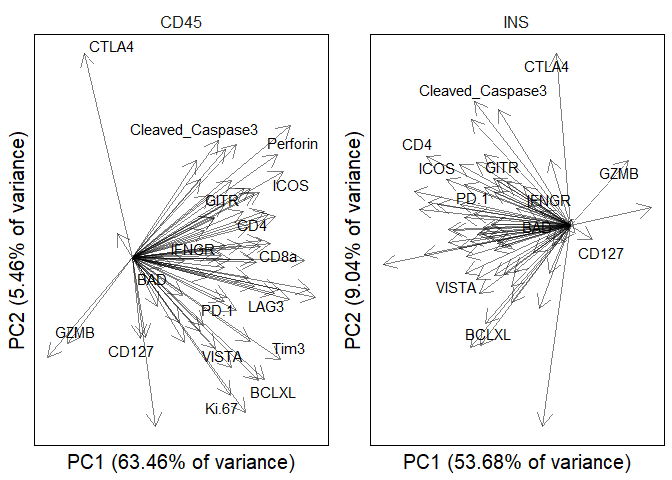
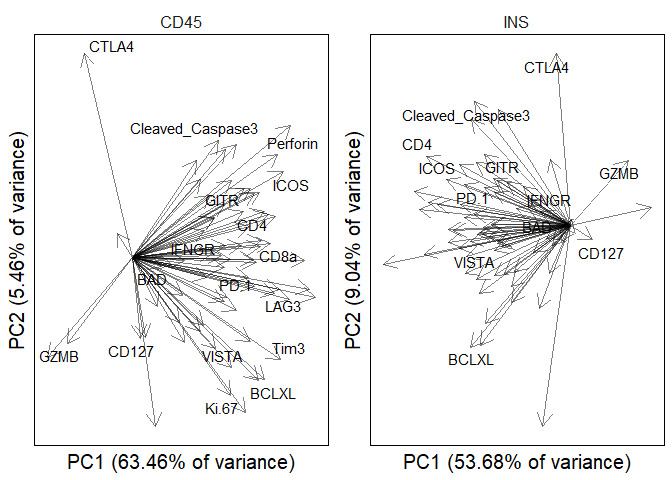
made geoMX analysis plots nicer

diff --git a/scripts/geoMX/geomx_analysis.md b/scripts/geoMX/geomx_analysis.md
@@ -2,7 +2,7 @@ geomx_analysis
 ================
 2022-06-29
 
-## GeoMX analysis
+## Introduction
 
 In this analysis, we looked at various proteins within beta islets of
 NOD mice age 16-22 weeks of age. The three treatment groups examined
@@ -33,15 +33,7 @@ require(nlme, quietly = T) #mixed linear model analysis
 require(ggrepel, quietly = T) #labels for pca plots
 require(tibble, quietly = T) #rownames_to_column function
 require(useful, quietly = T) #corner function to peek at data.frames
-```
-
-``` r
-treatment_colors <- c("IgG" = "black", 
-                      "Spt" = rgb(253,128,8, maxColorValue = 255), 
-                      "PD1" = rgb(128,0,128, maxColorValue = 255))
-islet_score_colors <- c("Insulitis" = "darkred",
-                  "Peri.insulitis" = "royalblue3",
-                  "Normal" = "seagreen4")
+source("scripts/utils.R") #custom color palettes
 ```
 
 Read in the data files. One data file contains the code-friendly protein
@@ -233,6 +225,8 @@ geomx %>% group_by(treatment,islet_score,label) %>% tally() %>% cast(label+islet
 geomx <- geomx %>% filter(islet_score != "Normal" & label == "CD45" | label == "INS")
 ```
 
+## Differences by score and region classification
+
 Examine protein expression broadly across all of the samples based on
 their region of classification (CD45+ or INS+ region) to confirm that
 expression levels generally make sense. CD45+ regions should have higher
@@ -369,8 +363,8 @@ p1 <- melted %>%
                                      vjust = 0.5, 
                                      hjust=1),
           axis.title.x = element_blank()) +
-    scale_color_manual(values = islet_score_colors) +
-    scale_fill_manual(values = islet_score_colors) +
+    scale_color_manual(values = custom_colors("islets")) +
+    scale_fill_manual(values = custom_colors("islets")) +
     { if (sum(p1_vals$p.adj < 0.05) > 0) #check if there are any significant p values, otherwise, don't plot any NS
       add_pvalue(p1_vals %>% filter(p.adj < 0.05),  #only plot significant values
                color = "black",
@@ -462,8 +456,8 @@ p2 <- melted %>%
                                      vjust = 0.5, 
                                      hjust=1),
           axis.title.x = element_blank()) +
-    scale_color_manual(values = islet_score_colors) +
-    scale_fill_manual(values = islet_score_colors) +
+    scale_color_manual(values = custom_colors("islets")) +
+    scale_fill_manual(values = custom_colors("islets")) +
     { if (sum(p2_vals$p.adj < 0.05) > 0) #check if there are any significant p values, otherwise, don't plot any NS
       add_pvalue(p2_vals %>% filter(p.adj < 0.05), #only plot significant values
                color = "black",
@@ -479,6 +473,8 @@ grid.arrange(p1, p2, nrow=2)
 ```
 
 <img src="geomx_analysis_files/figure-gfm/differences in protein expression by islet score (Insulitis/Peri.Insulitis)-1.png" width="900px" />
+
+## PCA analysis
 
 There are no significant differences between CD45+ regions within islets
 with insulitis vs. peri-insulitis. The only identified differences were
@@ -505,13 +501,13 @@ shapes <- shapes[as.numeric(factor(df_for_pca$islet_score))]
 plot(pca_scores$sites[,1],
      pca_scores$sites[,2],
      pch = shapes,
-     col = paste(treatment_colors[df_for_pca$treatment]),
+     col = paste(custom_colors("treatments")[df_for_pca$treatment]),
      xlim = c(-3,3),
      ylim = c(-3,3),
      cex=3)
 ordiellipse(prin_comp, factor(df_for_pca$treatment, levels = c("IgG","Spt","PD1")), 
             conf=0.90, 
-            col = treatment_colors, 
+            col = custom_colors("treatments"), 
             lwd = 2)
 ```
 
@@ -547,14 +543,14 @@ shapes <- shapes[as.numeric(factor(df_for_pca$islet_score))]
 plot(pca_scores$sites[,1],
      pca_scores$sites[,2],
      pch = shapes,
-     col = paste(treatment_colors[df_for_pca$treatment]),
+     col = paste(custom_colors("treatments")[df_for_pca$treatment]),
      xlim = c(-4,3),
      ylim = c(-2,4),
      cex=3)
 ordiellipse(prin_comp, 
             factor(df_for_pca$treatment, levels = c("IgG","Spt","PD1")), 
             conf=0.90, 
-            col = treatment_colors, 
+            col = custom_colors("treatments"), 
             lwd = 2)
 ```
 
@@ -595,7 +591,7 @@ pca_cd45 <- df_all %>%
     geom_point(size = 4, 
                alpha = 0.6) +
     stat_ellipse(level = 0.9) + #90% confidence intervals
-    scale_color_manual(values = treatment_colors) +
+    scale_color_manual(values = custom_colors("treatments")) +
     theme_minimal() +
     theme(panel.grid = element_blank(),
           axis.text = element_blank(),
@@ -615,7 +611,7 @@ pca_ins <- df_all %>%
     geom_point(size = 4, 
                alpha = 0.6) +
     stat_ellipse(level = 0.9) + #90% confidence intervals
-    scale_color_manual(values = treatment_colors) +
+    scale_color_manual(values = custom_colors("treatments")) +
     theme_minimal() +
     theme(panel.grid = element_blank(),
           axis.text = element_blank(),
@@ -642,7 +638,7 @@ weights_cd45 <- pca_weights %>%
     filter(label == "CD45") %>%
     ggplot(aes(x = PC1, y = PC2)) +
     facet_wrap(~ label, scales = "free") +
-    scale_color_manual(values = treatment_colors) +
+    scale_color_manual(values = custom_colors("treatments")) +
     theme_minimal() +
     theme(panel.grid = element_blank(),
           axis.text = element_blank(),
@@ -662,7 +658,7 @@ weights_ins <- pca_weights %>%
     filter(label == "INS") %>%
     ggplot(aes(x = PC1, y= PC2)) +
     facet_wrap(~ label, scales = "free") +
-    scale_color_manual(values = treatment_colors) +
+    scale_color_manual(values = custom_colors("treatments")) +
     theme_minimal() +
     theme(panel.grid = element_blank(),
           axis.text = element_blank(),
@@ -686,47 +682,74 @@ grid.arrange(weights_cd45, weights_ins, nrow = 1)
 
 ![](geomx_analysis_files/figure-gfm/ggplot%20of%20PCA%20weights-1.png)<!-- -->
 
+# Treatment-associated differences
+
 Next, the differences between treatment groups will be analyzed by
 generating volcano plots. Here is an example of the comparison between
 PD1 and Spt. There are no significant differences.
 
 ``` r
-meltednrml <- melted %>% filter(label == "CD45") %>% dplyr::select(-islet_score)
-meltednrml$treatment <- relevel(meltednrml$treatment, ref = "PD1")
+meltednrml <- melted %>% 
+                filter(label == "CD45") %>% #examine the CD45 gated regions
+                filter(!protein %in% c("Rt_IgG2b","Rb_IgG","Rt_IgG2a","CD45","INS","S6","GFP","MHCII","GAPDH","Histone.H3","PanCk")) %>% #remove housekeeping genes and irrelevant genes not in the dataset (GFP is not in this mouse and MHCII is different in NOD)
+                dplyr::select(-islet_score) 
+meltednrml$treatment <- relevel(meltednrml$treatment, ref = "PD1") #use PD1 as the reference group
 df <- data.frame()
 
 for (current_protein in as.character(unique(meltednrml$protein))) {
   tmp <- meltednrml %>% 
-    filter(protein == current_protein)
-  tmp <- data.frame(summary(lme(expression ~ treatment, random = list(~1|mouse, ~1|scan_id), data = tmp))$tTable[-1,]) %>% 
-    rownames_to_column("comparison") %>% 
-    mutate(protein = current_protein, ref = "PD1", comparison = gsub("treatment", "", comparison))
-  df <- rbind(df, tmp)
+            filter(protein == current_protein)
+  tmp <- data.frame(summary(lme(expression ~ treatment, #mixed linear model to look at correlation of expression to treatment group
+                                random = list(~1|mouse, #control for the mouse examined
+                                              ~1|scan_id), #also control for each scan
+                                data = tmp))$tTable[-1,]) %>% 
+          rownames_to_column("comparison") %>% #move the treatment group being compared to a column
+          mutate(protein = current_protein, ref = "PD1", comparison = gsub("treatment", "", comparison)) #clean up
+  df <- rbind(df, tmp) #add the temporary df with one protein to the df with data for all the proteins
 }
 
 avgs <- meltednrml %>% 
-  group_by(treatment,protein) %>% 
-  summarize(avg = mean(expression), .groups = "keep")
+          group_by(treatment, protein) %>% 
+          summarize(avg = mean(expression), .groups = "keep") #calculate the mean expression for each protein within each treatment
 
-tbl <- merge(df, avgs %>% cast(protein~treatment,value = "avg"), by = c("protein"))
-tbl <- tbl %>% mutate(log2FC = ifelse(comparison == "Spt", log2(Spt/PD1), log2(IgG/PD1)))
-pd1_v_spt <- tbl %>% filter(comparison == "Spt")
-pd1_v_spt$p.adj <- p.adjust(pd1_v_spt$p.value, method = "BH")
+tbl <- merge(df, avgs %>% cast(protein ~ treatment, value = "avg"), by = c("protein")) #merge the df with the casted averages (wide format)
+tbl <- tbl %>% mutate(log2FC = ifelse(comparison == "Spt", log2(PD1/Spt), log2(PD1/Spt))) #calculate the log fold change based on the desired comparison
+pd1_v_spt <- tbl %>% 
+              filter(comparison == "Spt") %>% #only select the relevant comparison
+              dplyr::select(-IgG) #remove column containing average values that aren't relevant
+pd1_v_spt$p.adj <- p.adjust(pd1_v_spt$p.value, method = "BH") #adjust the p values using BH
 
+log2FC_cutoff <- 1.25 #define a cutoff log2fc
+pd1_v_spt$log2FC_signif <- case_when(pd1_v_spt$log2FC > log2FC_cutoff ~ "PD1",
+                              pd1_v_spt$log2FC < -log2FC_cutoff ~ "Spt",
+                              TRUE ~ "none")
+
+## PLOT THE DATA
+proteins_of_interest <- c("CTLA4","Ki.67","CD4","Tim3","LAG3","PD.1","CD8a")
 pd1_v_spt %>%
-    ggplot(aes(x=log2FC,y=-log10(p.adj))) + 
-    theme_minimal() + 
-    theme(panel.grid = element_blank(),
-          panel.border = element_rect(color="grey10", fill = NA)) +
-    geom_hline(yintercept = -log10(0.05), color = "grey90") + 
-    geom_vline(xintercept = c(-0.5,0.5), color = "grey90") +
-    geom_point() + 
-    scale_x_continuous(limits = c(-3,3)) +
-    scale_y_continuous(limits = c(0,2)) +
-    geom_text_repel(data = subset(pd1_v_spt, p.adj < 0.5 & abs(log2FC) > 0.5), aes(label=protein))
+  ggplot(aes(x = log2FC, 
+             y = -log10(p.adj),
+             color = log2FC_signif)) + 
+  theme_minimal() + 
+  theme(panel.grid = element_blank(),
+        text = element_text(size = 15),
+        panel.border = element_rect(fill = NA, color = "black")) +
+  labs(x = "Average Log2 Fold Change (PD1 / Spt)",
+       y = expression(-log[10]~(Adjusted~p~value)),
+       title="CD45+ regions") +
+  #geom_hline(yintercept = -log10(0.05), color = "grey90") + 
+  geom_vline(xintercept = c(-log2FC_cutoff, log2FC_cutoff), color = "grey90") +
+  geom_point(size = 2) + 
+  scale_x_continuous(limits = c(-3, 3)) +
+  scale_color_manual(values = custom_colors("treatments")) +
+  #scale_y_continuous(limits = c(0, 1.5)) +
+  geom_label_repel(data = subset(pd1_v_spt, protein %in% proteins_of_interest), aes(label = protein, color = log2FC_signif),
+                   label.size = NA,
+                   label.padding = 0.2, 
+                   na.rm = TRUE,
+                   fill = alpha(c("white"), 0.8), 
+                   size = 7, 
+                   max.overlaps = 50) 
 ```
 
-    ## Warning: ggrepel: 42 unlabeled data points (too many overlaps). Consider
-    ## increasing max.overlaps
-
-![](geomx_analysis_files/figure-gfm/Protein%20expression%20between%20treatment%20groups-1.png)<!-- -->
+![](geomx_analysis_files/figure-gfm/Protein%20expression%20between%20PD1%20and%20Spt-1.png)<!-- -->
